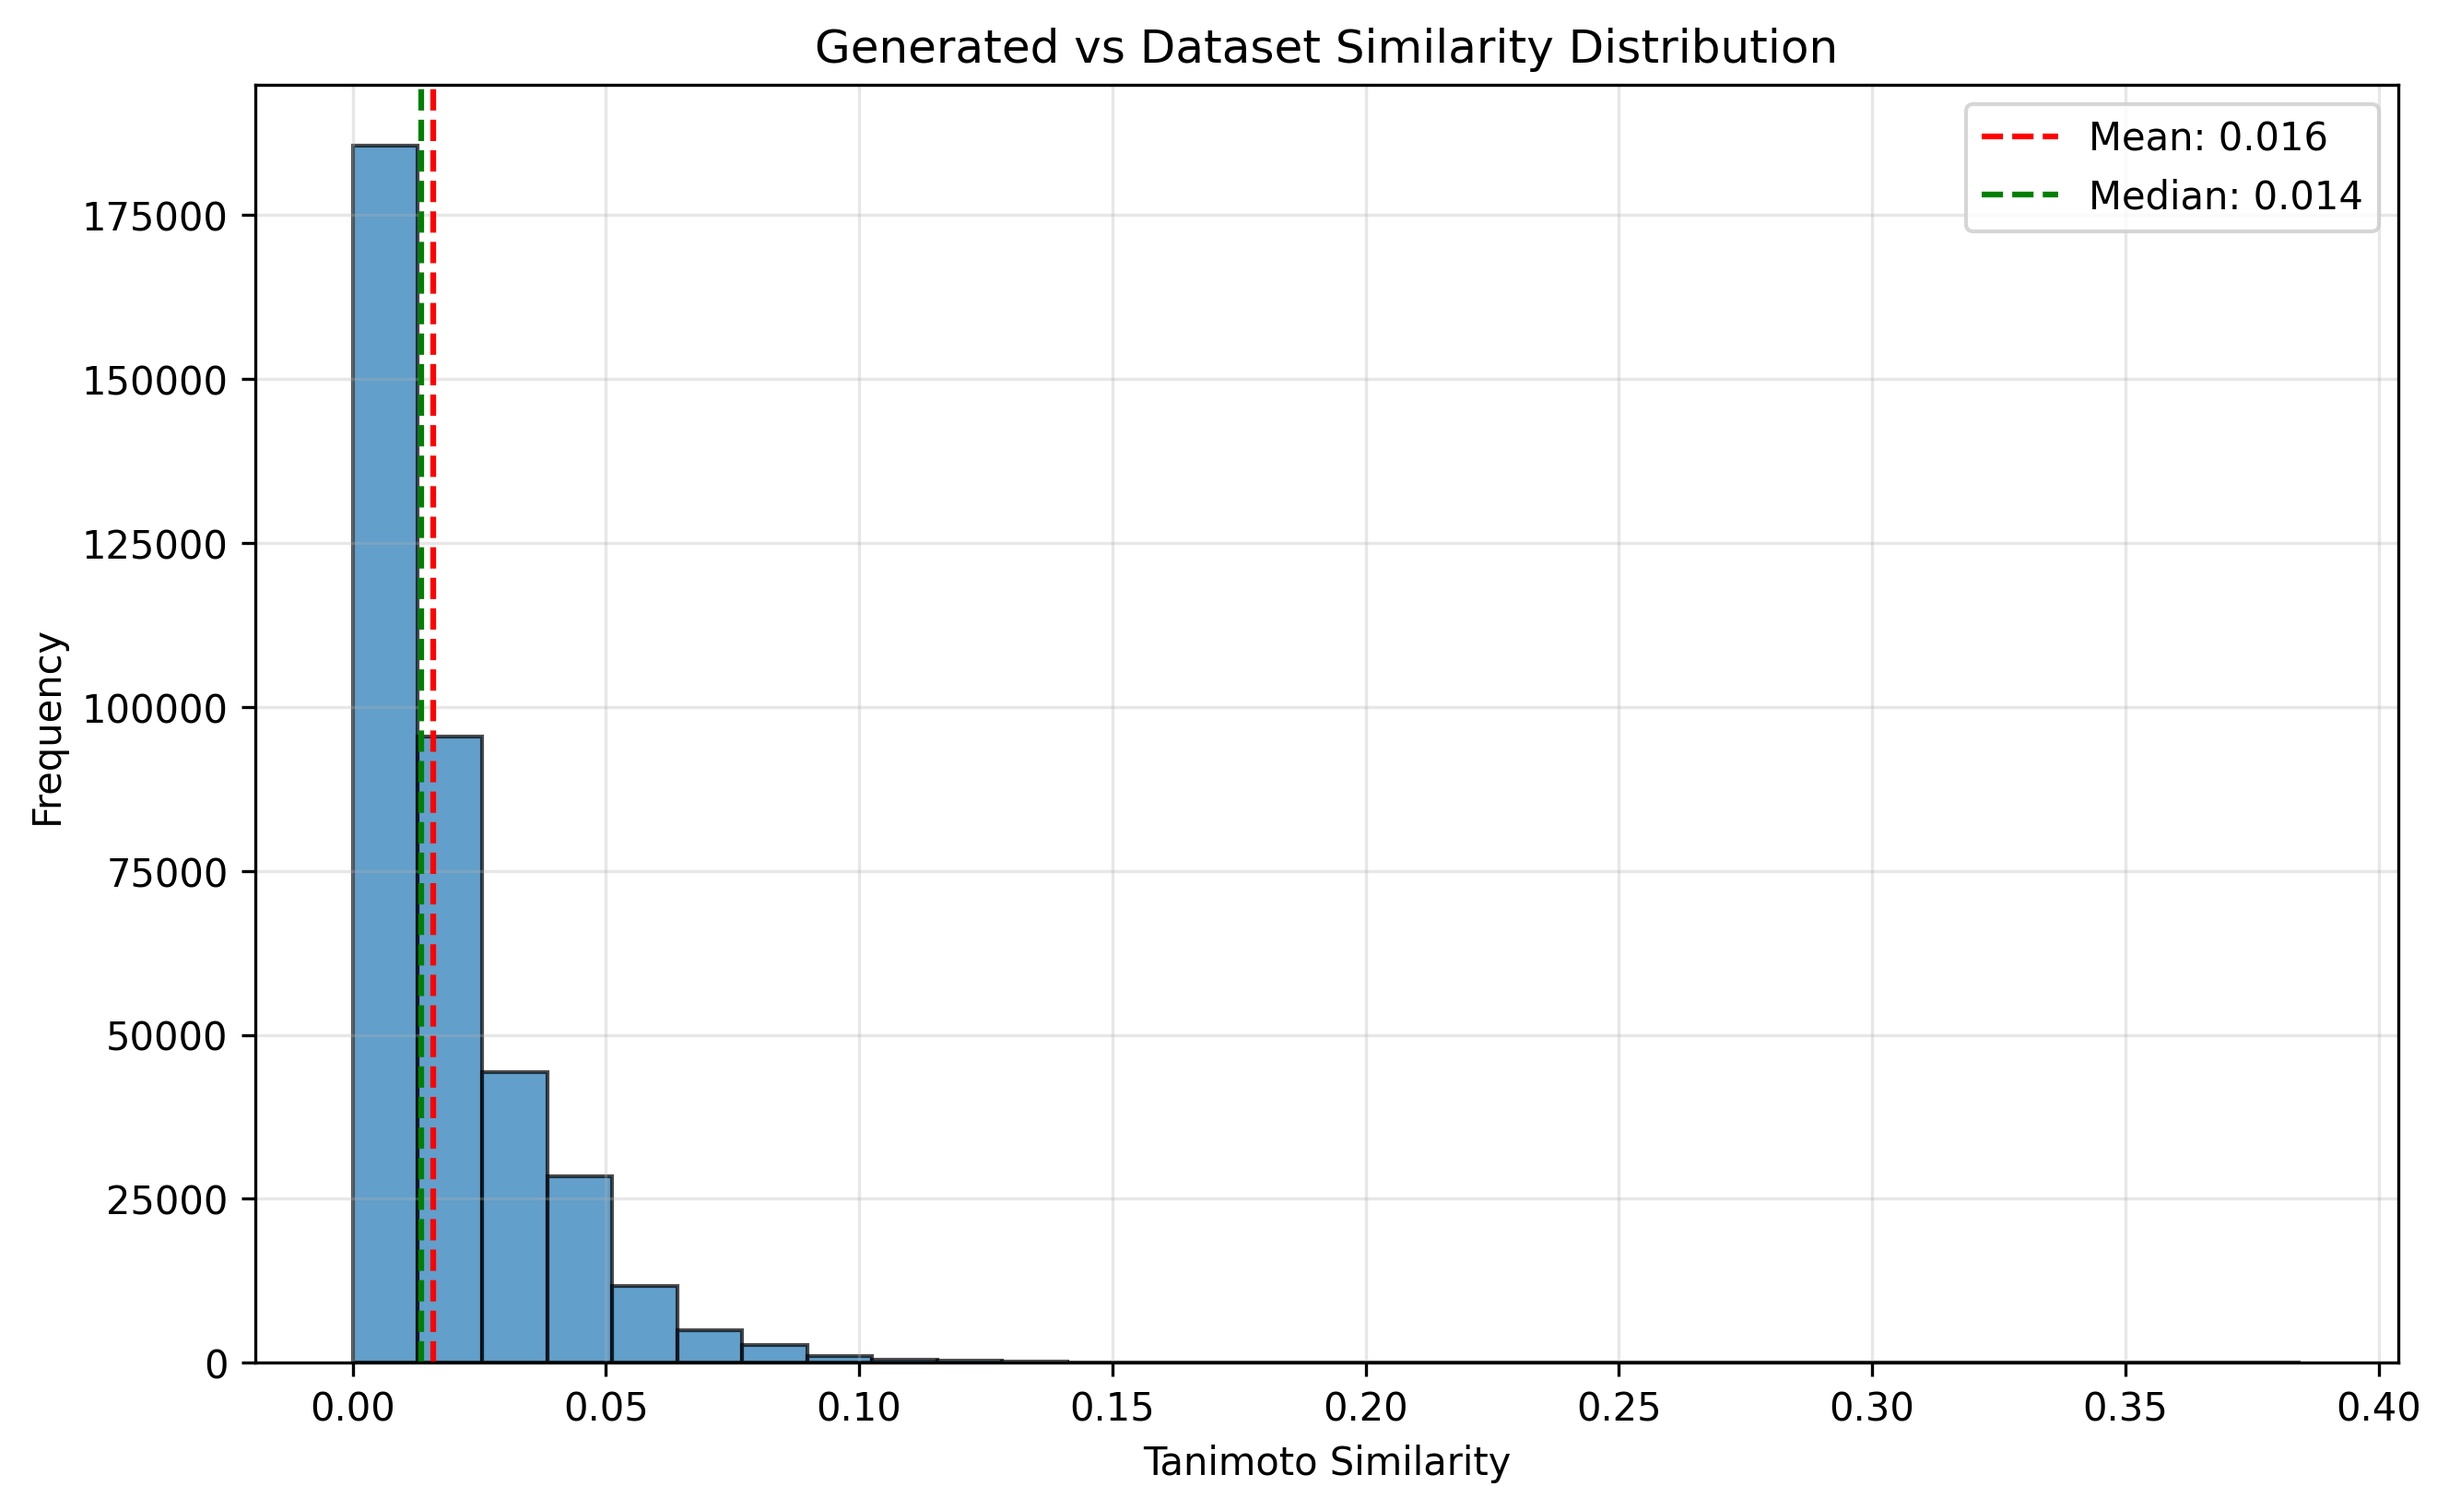
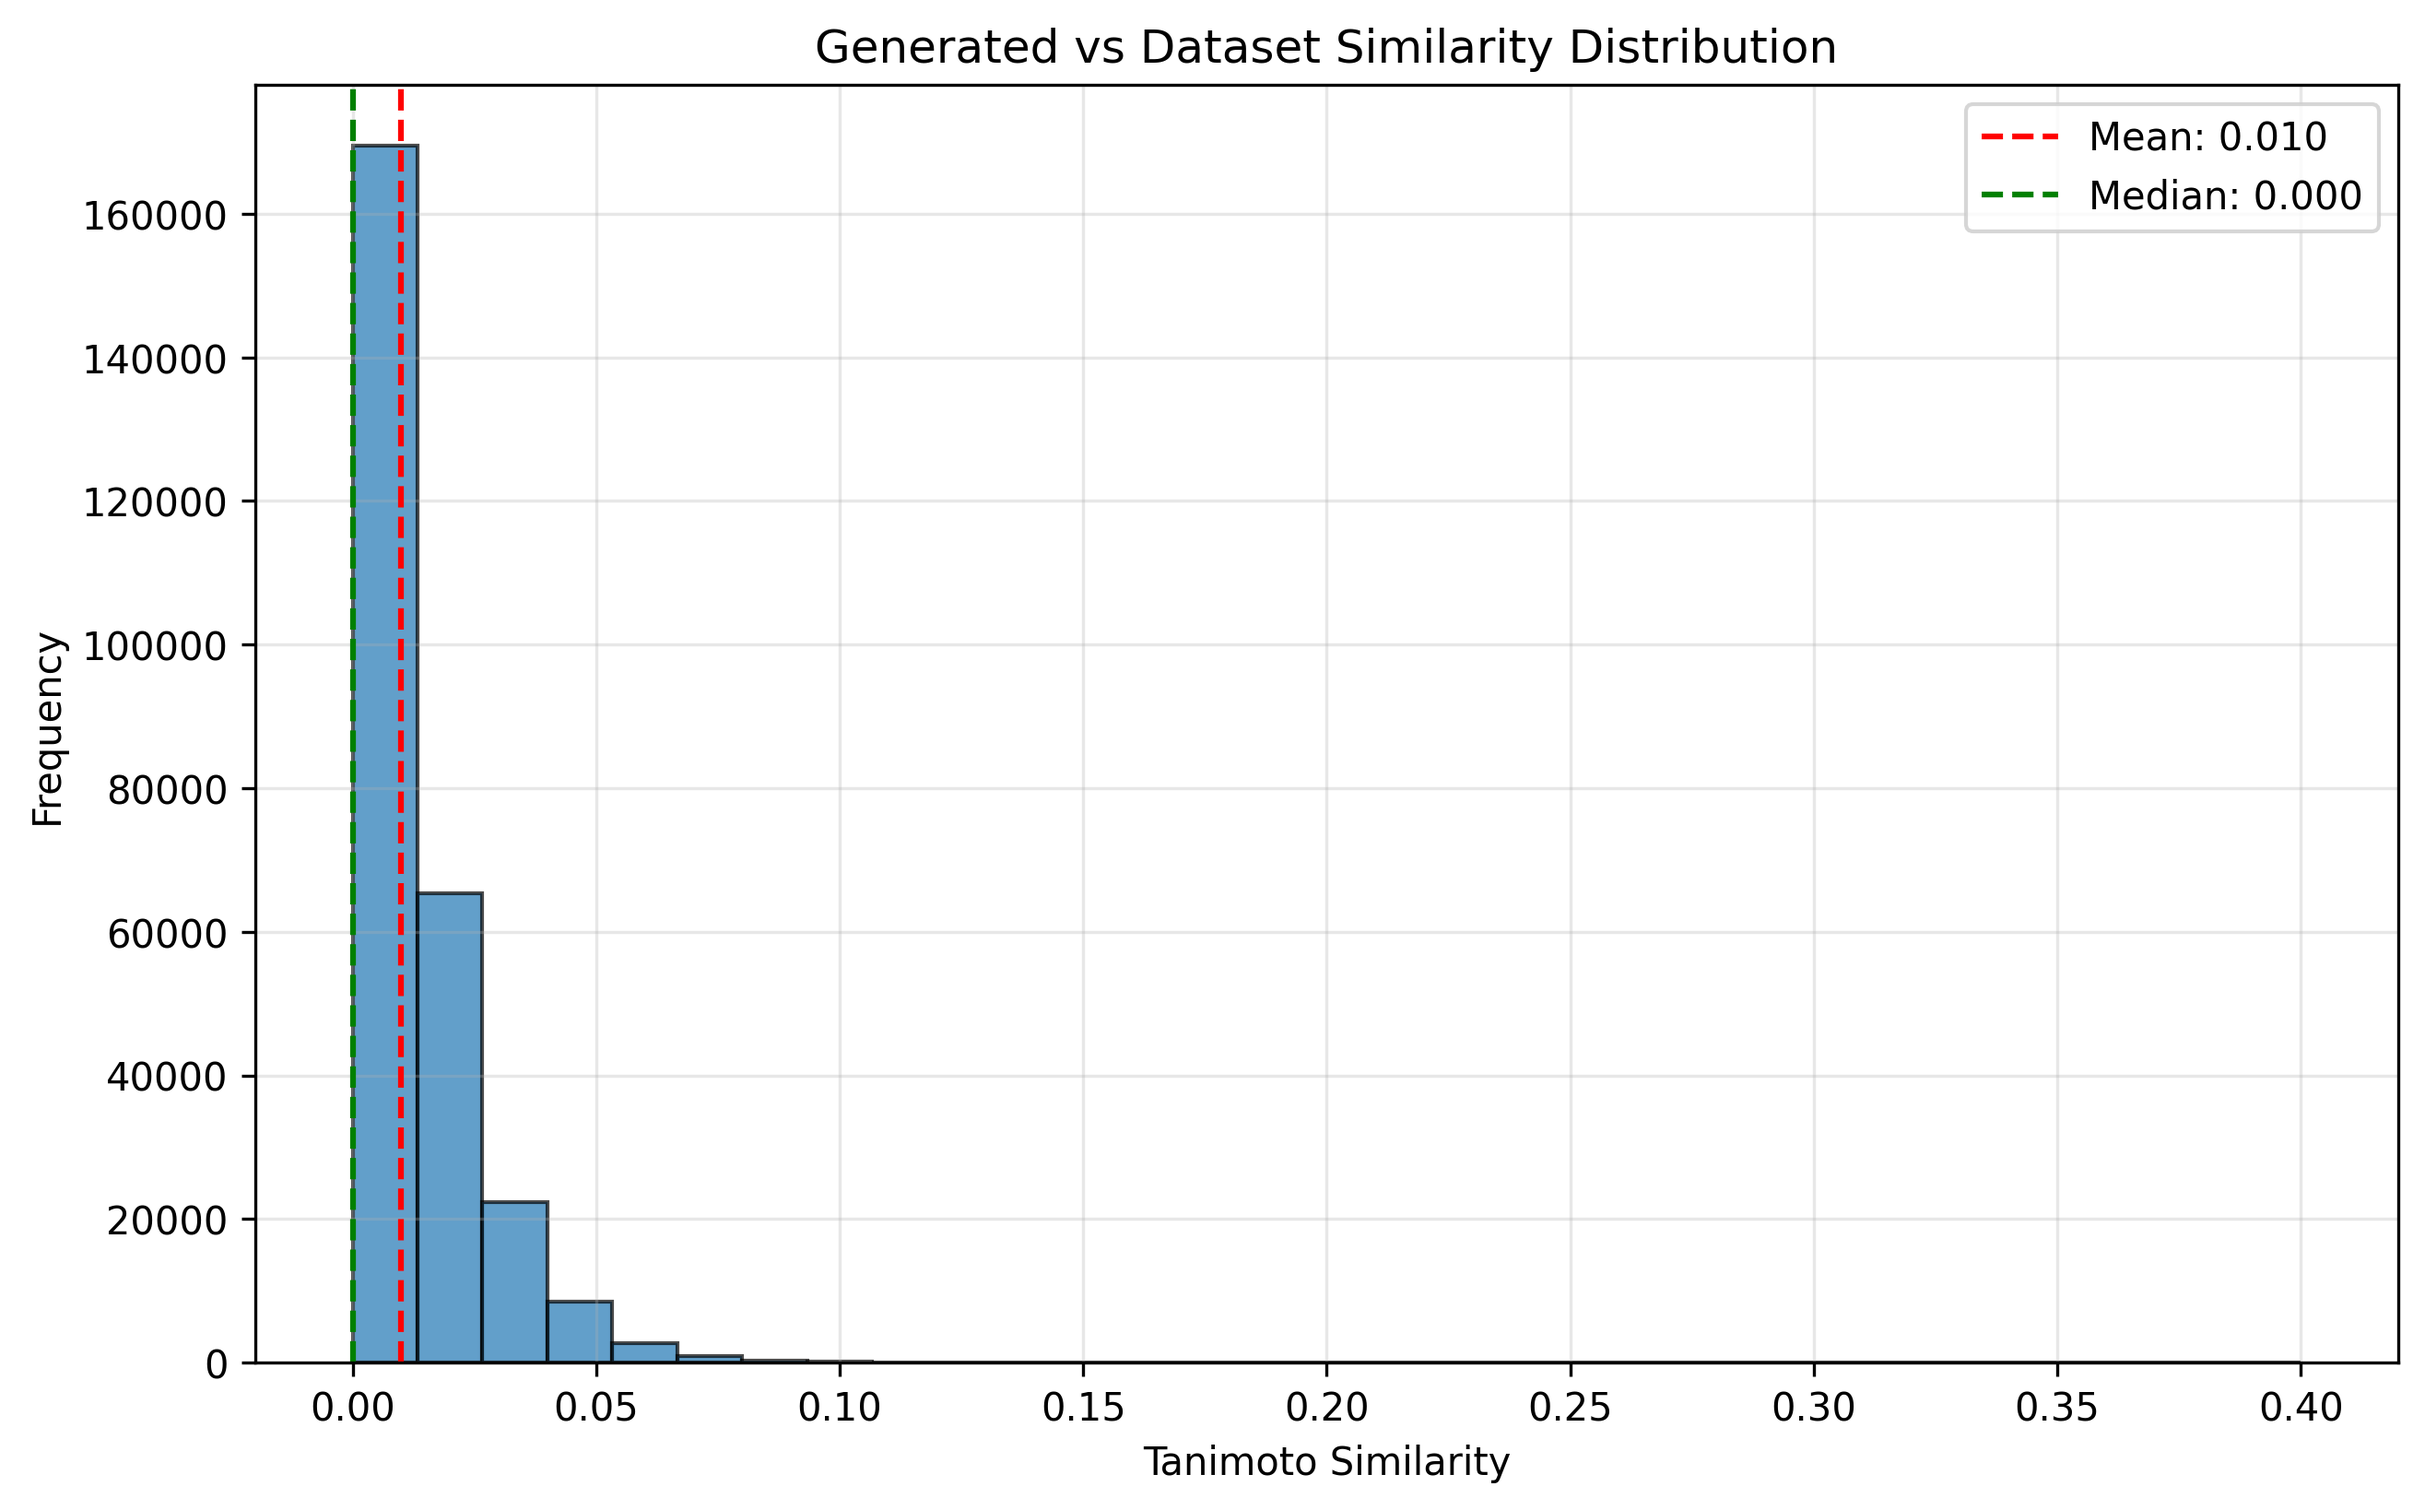
Switch to pure FILM architecture - remove latent_fusion completely

diff --git a/models/transformer_vae.py b/models/transformer_vae.py
@@ -27,21 +27,13 @@ class SelfiesTransformerVAE(nn.Module):
         )
         self.latent_dim = latent_dim
         
-        # Property conditioning layers
+        # Property conditioning layers - FILM architecture (best practice)
         self.num_properties = 2  # logp, tpsa
-        # Encode properties to latent space for conditioning
+        # Project properties to embedding_dim for FILM conditioning
         self.property_encoder = nn.Sequential(
             nn.Linear(self.num_properties, hidden_dim),
             nn.ReLU(),
-            nn.Linear(hidden_dim, latent_dim)
-        )
-        
-        # Nonlinear fusion to combine encoder output with properties
-        # Use a 2-layer MLP for more expressive mixing
-        self.latent_fusion = nn.Sequential(
-            nn.Linear(latent_dim * 2, hidden_dim),
-            nn.ReLU(),
-            nn.Linear(hidden_dim, latent_dim)
+            nn.Linear(hidden_dim, embedding_dim)  # Output to embedding_dim for FILM
         )
         
         # Property normalization parameters (will be set from training)
@@ -72,21 +64,19 @@ class SelfiesTransformerVAE(nn.Module):
         mu, logvar = self.encoder(input_seq)
         z = self.reparameterize(mu, logvar)
         
-        # Condition latent space on properties if provided (CVAE approach)
-        if properties is not None:
-            # Encode properties to latent space
-            property_latent = self.property_encoder(properties)  # [B, latent_dim]
-            # Concatenate encoder output with property conditioning, then fuse
-            combined = mx.concatenate([z, property_latent], axis=-1)  # [B, latent_dim*2]
-            z = self.latent_fusion(combined)  # [B, latent_dim]
-        
         # Add Gaussian noise during training for decoder robustness
         if training and noise_std > 0:
             noise = mx.random.normal(z.shape) * noise_std
             z = z + noise
         
-        # Decode from latent space
-        logits = self.decoder(z, input_seq)
+        # Get property embedding for FILM conditioning (best practice)
+        if properties is not None:
+            property_embedding = self.property_encoder(properties)  # [B, embedding_dim]
+        else:
+            property_embedding = None
+        
+        # Decode from latent space with FILM conditioning
+        logits = self.decoder(z, input_seq, property_embedding)
         
         return logits, mu, logvar
 
@@ -102,24 +92,18 @@ class SelfiesTransformerVAE(nn.Module):
             norm_logp = target_logp
             norm_tpsa = target_tpsa
         
-        # Create property embeddings
+        # Create property embeddings for FILM conditioning
         properties_array = mx.array([[norm_logp, norm_tpsa]] * num_samples)
-        property_latent = self.property_encoder(properties_array)  # [num_samples, latent_dim]
+        property_embedding = self.property_encoder(properties_array)  # [num_samples, embedding_dim]
         
-        # Sample from learned distribution - the encoder learns to map to N(0,1) with KL
-        # During training: encoder(x) -> q(z|x,c), which after training should be p(z|c) ≈ N(0,1) 
-        # At inference: sample from p(z|c) which we approximate as N(0,1) conditioned on properties
-        base_z = mx.random.normal((num_samples, self.latent_dim))
+        # Sample from prior N(0,1) - matches training where encoder learns q(z|x)
+        z = mx.random.normal((num_samples, self.latent_dim))
         
-        # Match training approach: use fusion layer to combine base_z and property_latent
-        combined = mx.concatenate([base_z, property_latent], axis=-1)
-        z = self.latent_fusion(combined)
-        
-        # Decode to generate molecules
-        samples = self._decode_conditional(z, temperature, top_k)
+        # Decode with FILM conditioning
+        samples = self._decode_conditional(z, property_embedding, temperature, top_k)
         return samples
 
-    def _decode_conditional(self, z, temperature, top_k):
+    def _decode_conditional(self, z, property_embedding, temperature, top_k):
         """Autoregressive decoding with property guidance"""
         batch_size = z.shape[0]
         START = 1
@@ -128,7 +112,7 @@ class SelfiesTransformerVAE(nn.Module):
         max_length = 50
         
         for _ in range(max_length - 1):
-            logits = self.decoder(z, seq)[:, -1, :]
+            logits = self.decoder(z, seq, property_embedding)[:, -1, :]
             
             # Apply top-k sampling
             if top_k > 0:
